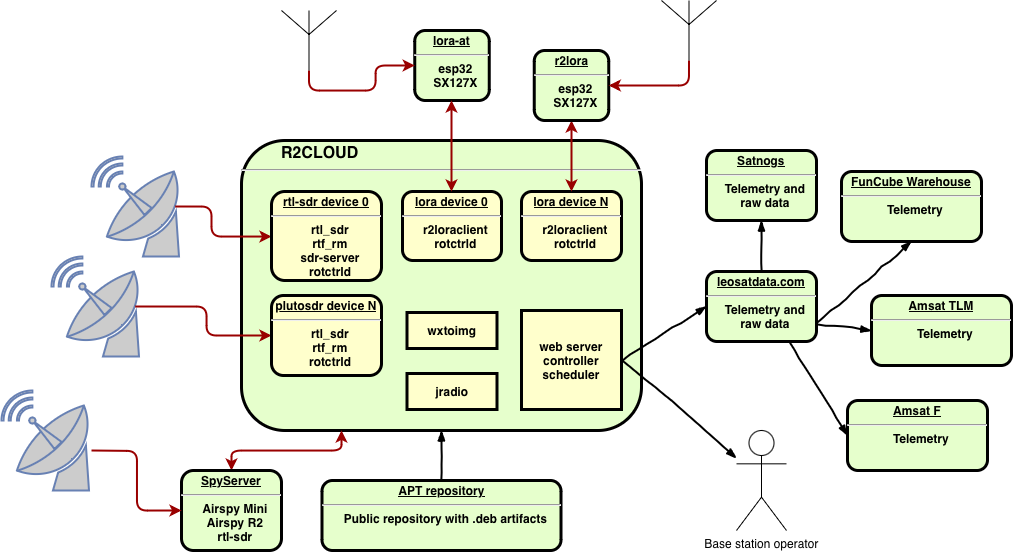
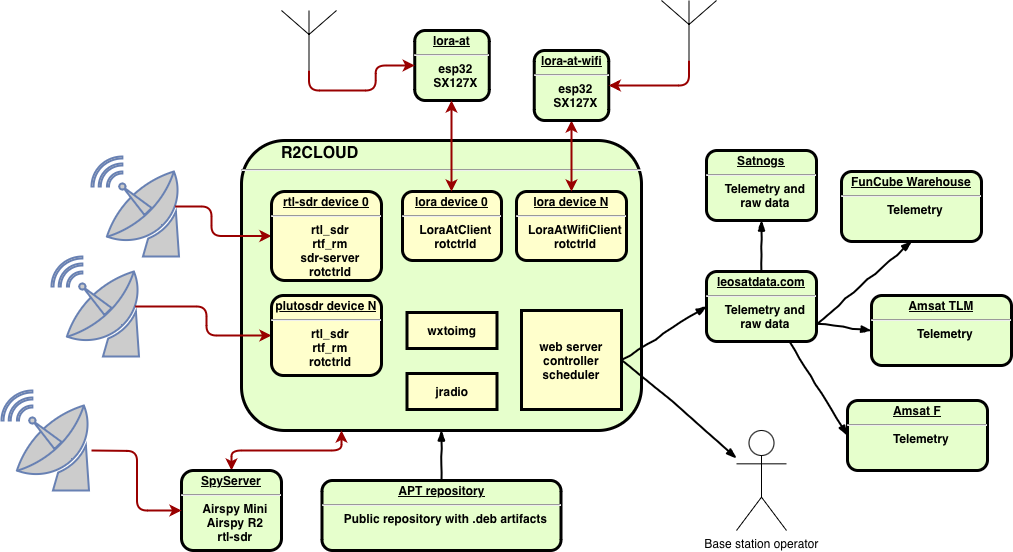
deprecate r2lora integration

diff --git a/src/test/java/ru/r2cloud/it/util/BaseTest.java b/src/test/java/ru/r2cloud/it/util/BaseTest.java
@@ -49,7 +49,7 @@ public abstract class BaseTest {
 	private static final Logger LOG = LoggerFactory.getLogger(BaseTest.class);
 	public static final int ROTCTRLD_PORT = 8004;
 	private static final int ROTCTRLD_PORT_LORA = 8006;
-	private static final int R2LORA_PORT = 8005;
+	private static final int LORA_AT_WIFI_PORT = 8005;
 	private static final int SPYSERVER_MOCK = 8008;
 
 	private R2Cloud server;
@@ -116,7 +116,7 @@ public abstract class BaseTest {
 		rotctrlMockForLora.setHandler(new CollectingRequestHandler("RPRT 0\n"));
 		rotctrlMockForLora.start();
 
-		loraAtWifiServer = HttpServer.create(new InetSocketAddress("127.0.0.1", R2LORA_PORT), 0);
+		loraAtWifiServer = HttpServer.create(new InetSocketAddress("127.0.0.1", LORA_AT_WIFI_PORT), 0);
 		loraAtWifiServer.createContext("/api/v2/status", new JsonHttpResponse("loraatwifitest/status.json", 200));
 		loraAtWifiServer.start();
 

diff --git a/src/test/java/ru/r2cloud/lora/loraat/LoraAtWifiClientTest.java b/src/test/java/ru/r2cloud/lora/loraat/LoraAtWifiClientTest.java
@@ -66,12 +66,12 @@ public class LoraAtWifiClientTest {
 		response = client.stopObservation();
 		assertEquals(ResponseStatus.SUCCESS, response.getStatus());
 		assertEquals(1, response.getFrames().size());
-		LoraFrame r2loraFrame = response.getFrames().get(0);
-		assertArrayEquals(new byte[] { (byte) 0xca, (byte) 0xfe }, r2loraFrame.getData());
-		assertEquals(-121, r2loraFrame.getRssi());
-		assertEquals(-5.75, r2loraFrame.getSnr(), 0.00001f);
-		assertEquals(-729, r2loraFrame.getFrequencyError());
-		assertEquals(1641987504, r2loraFrame.getTimestamp());
+		LoraFrame frame = response.getFrames().get(0);
+		assertArrayEquals(new byte[] { (byte) 0xca, (byte) 0xfe }, frame.getData());
+		assertEquals(-121, frame.getRssi());
+		assertEquals(-5.75, frame.getSnr(), 0.00001f);
+		assertEquals(-729, frame.getFrequencyError());
+		assertEquals(1641987504, frame.getTimestamp());
 	}
 
 	@Test

diff --git a/src/main/java/ru/r2cloud/lora/loraat/LoraAtWifiClient.java b/src/main/java/ru/r2cloud/lora/loraat/LoraAtWifiClient.java
@@ -48,7 +48,7 @@ public class LoraAtWifiClient implements LoraAtClient {
 	public LoraAtWifiClient(String host, int port, String username, String password, int timeout) {
 		this.hostname = "http://" + host + ":" + port;
 		this.basicAuth = "Basic " + Base64.getEncoder().encodeToString((username + ":" + password).getBytes(StandardCharsets.ISO_8859_1));
-		this.httpclient = HttpClient.newBuilder().version(Version.HTTP_2).followRedirects(Redirect.NORMAL).connectTimeout(Duration.ofMillis(timeout)).build();
+		this.httpclient = HttpClient.newBuilder().version(Version.HTTP_1_1).followRedirects(Redirect.NORMAL).connectTimeout(Duration.ofMillis(timeout)).build();
 	}
 
 	@Override

diff --git a/src/test/java/ru/r2cloud/it/ObservationTest.java b/src/test/java/ru/r2cloud/it/ObservationTest.java
@@ -69,9 +69,6 @@ public class ObservationTest extends RegisteredTest {
 		JsonHttpResponse spectogramHandler = new JsonHttpResponse("r2cloudclienttest/empty-response.json", 200);
 		server.setSpectogramMock(1L, spectogramHandler);
 
-		loraAtWifiServer.createContext("/lora/rx/start", new JsonHttpResponse("r2loratest/success.json", 200));
-		loraAtWifiServer.createContext("/rx/stop", new JsonHttpResponse("r2loratest/successStop.json", 200));
-
 		// start observation
 		String satelliteId = "46494";
 		List<String> observationIds = client.scheduleStart(satelliteId);

diff --git a/src/test/java/ru/r2cloud/satellite/reader/R2loraReaderTest.java b/src/test/java/ru/r2cloud/satellite/reader/R2loraReaderTest.java
@@ -30,6 +30,7 @@ import ru.r2cloud.model.Satellite;
 import ru.r2cloud.model.Transmitter;
 import ru.r2cloud.util.Configuration;
 
+@Deprecated
 public class R2loraReaderTest {
 
 	@Rule
